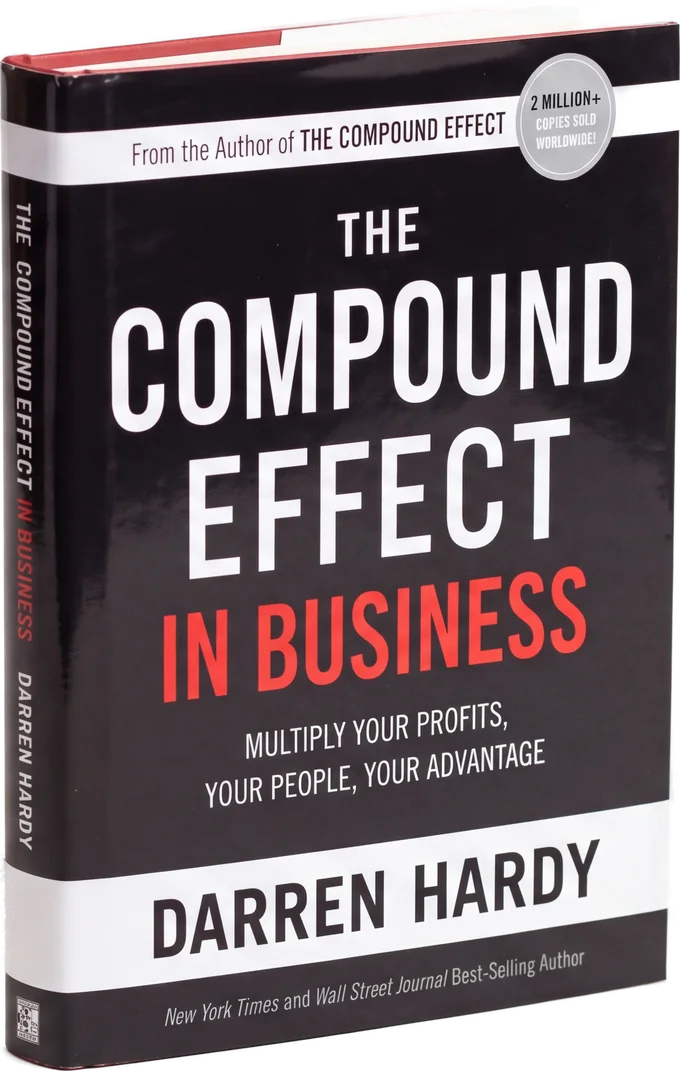
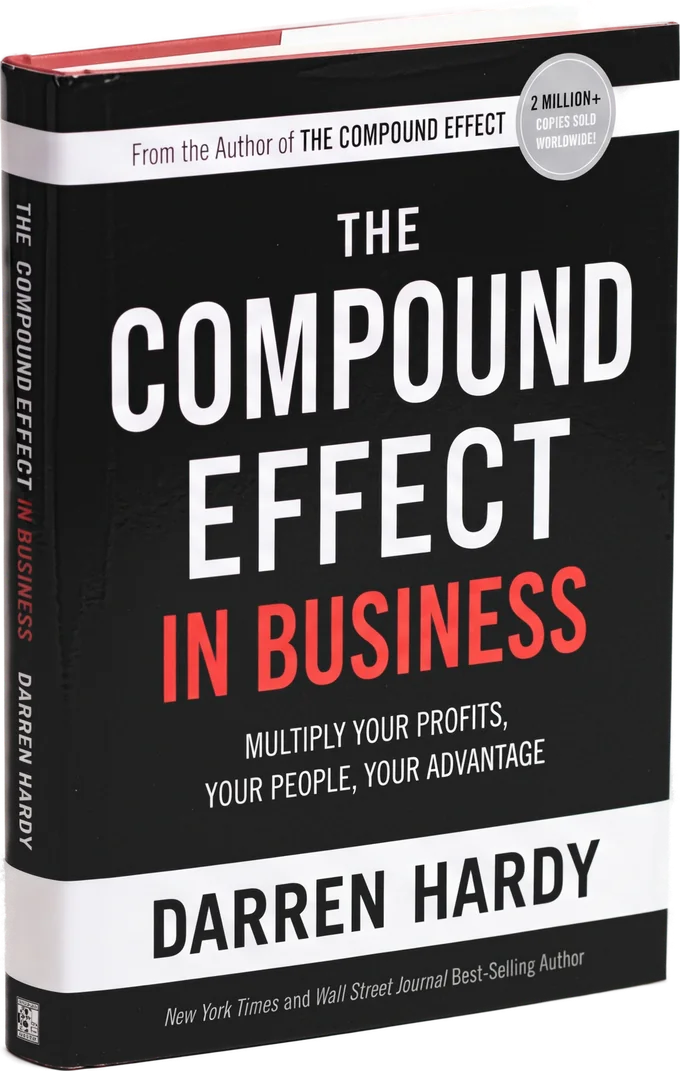
TCEB pre-print mock: even neutral black on the book jacket, no shadow

diff --git a/tce-mocks/pre-print/index.html b/tce-mocks/pre-print/index.html
@@ -55,8 +55,6 @@ a{color:inherit}
 .invite-grid{display:grid;grid-template-columns:minmax(0,.82fr) minmax(0,1.18fr);gap:56px;align-items:center}
 .book{position:relative;max-width:340px;margin:0 auto}
 .book img{display:block;width:100%;height:auto;position:relative;z-index:1}
-/* real contact shadow under the object (guide 06: shadows only under objects) */
-.book::after{content:"";position:absolute;left:8%;right:2%;bottom:-14px;height:34px;background:radial-gradient(50% 50% at 50% 50%,rgba(0,0,0,.32),rgba(0,0,0,0) 70%);filter:blur(4px)}
 .perks{margin:0 0 40px;padding:0;list-style:none;border-top:1px solid var(--c-line);max-width:560px}
 .perks li{padding:16px 0;border-bottom:1px solid var(--c-line);font-size:18px;line-height:1.5;color:var(--c-ink)}
 .perks b{color:var(--c-black);font-weight:700}
